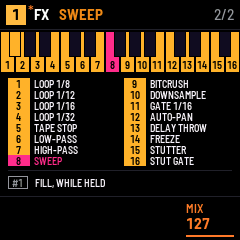
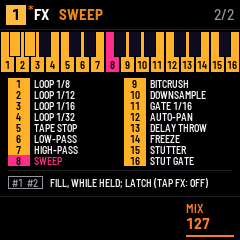
LATCH: FX held, black key 2 keeps the punch-ins held after their keys and FX, until a tap on FX (not TAPE STOP, DELAY THROW, FREEZE)

Changed region(s): [[0.0875, 0.7292, 0.875, 0.7875], [0.0875, 0.1167, 0.1458, 0.2333]]

diff --git a/app/ui.c b/app/ui.c
@@ -214,6 +214,8 @@ static struct {
     int fxdown, msg_punch;                     /* msg_punch: the punch-in last pressed 1..16, shown until punch_until */
     int fill;                                  /* FX held, black key 1 held: FILL (audio_fill) */
     uint16_t punch;                            /* the punch-ins held under FX, bit k = white key k + 1 */
+    uint16_t latch;                            /* FX held, black key 2: the punch-ins kept after their keys and FX, until a
+                                                  tap on FX */
     uint8_t last_note[Q_TRACKS];               /* a step switched on by hand takes it */
     int8_t key_note[NKEYS], key_track[NKEYS];  /* what each held key sounds, for its note-off; -1 none */
     uint32_t btn, keys, msg_until, locks_until, path_until, punch_until;
@@ -1123,13 +1125,14 @@ static void pattern_set(int n)
    paste it. A paste replaces what is there: it asks for a second press. The clipboards stay till power-off */
 enum { COPY_PAT = 1, COPY_AGAIN, COPY_PAT_PASTED, COPY_SND, COPY_SND_PASTED, COPY_NONE, COPY_UNDONE, COPY_REDONE,
        COPY_NO_UNDO, COPY_AGAIN_LOAD, COPY_UNSAVED_LOAD, COPY_AGAIN_PRINT, COPY_PRINTING, COPY_PRINTED, COPY_PLAY_PRINT,
-       COPY_DOUBLED, COPY_TOO_LONG, COPY_NUDGE_L, COPY_NUDGE_R, COPY_PROJECT, COPY_N = COPY_PROJECT + Q_PROJECTS };   /* (the header's messages for
+       COPY_DOUBLED, COPY_TOO_LONG, COPY_NUDGE_L, COPY_NUDGE_R, COPY_LATCHED, COPY_UNLATCHED, COPY_PROJECT, COPY_N = COPY_PROJECT + Q_PROJECTS };   /* (the header's messages for
                                                        the copies, UNDO and the projects: COPY_PROJECT + n, project n) */
 static const char *const COPY_NAME[COPY_N - 1] = {"PATTERN COPIED", "AGAIN: PASTE", "PATTERN PASTED", "SOUND COPIED",
                                                    "SOUND PASTED", "NOTHING COPIED", "UNDONE", "REDONE",
                                                    "NOTHING TO UNDO", "AGAIN: LOAD", "UNSAVED: LOAD?", "AGAIN: PRINT",
                                                    "PRINTING", "PRINTED", "PLAY TO PRINT", "LEN DOUBLED",
-                                                   "TOO LONG TO DOUBLE", "STEPS LEFT", "STEPS RIGHT", "PROJECT 1",
+                                                   "TOO LONG TO DOUBLE", "STEPS LEFT", "STEPS RIGHT", "LATCHED",
+                                                   "LATCH OFF", "PROJECT 1",
                                                    "PROJECT 2",
                                                    "PROJECT 3", "PROJECT 4"};   /* COPY_* - 1 */
 static struct { q_pattern pat; q_sound snd; q_pad pads[Q_PADS]; uint8_t has_pat, has_snd; } clip;   /* (.bss: the pool
@@ -1975,9 +1978,15 @@ static void key_down(int k)
         home_key(w);
         return;
     }
-    if (ui.fxdown) {                    /* FX held: the white keys are the punch-ins, black key 1 FILL */
+    if (ui.fxdown) {                    /* FX held: the white keys are the punch-ins, black key 1 FILL, black key 2 LATCH */
         if (k == BLACK[0])
             audio_fill(ui.fill = 1);
+        if (k == BLACK[1]) {            /* the ones that end in silence or a wash are not kept: TAPE STOP, DELAY THROW,
+                                           FREEZE */
+            ui.latch = ui.punch & (uint16_t)~(1u << 4 | 1u << 12 | 1u << 13);
+            if (ui.latch)
+                copy_msg(COPY_LATCHED, MSG_MS);
+        }
         if (w < 16) {
             ui.punch |= (uint16_t)(1u << w);
             audio_punch(ui.punch);
@@ -2244,7 +2253,7 @@ static void key_up(int k)
 {
     int w;
     for (w = 0; w < 16 && WHITE[w] != k; w++) {}
-    if (w < 16 && ui.punch >> w & 1) {
+    if (w < 16 && ui.punch >> w & 1 && !(ui.latch >> w & 1)) {
         ui.punch &= (uint16_t)~(1u << w);
         audio_punch(ui.punch);
     }
@@ -2321,9 +2330,13 @@ void ui_input(void)
         sel_clear();
     ui.arpdown = btn >> B_ARP & 1u;
     ui.fxdown = btn >> B_FX & 1u;
-    if (!ui.fxdown && ui.punch) {       /* FX let go: every punch-in with it */
-        ui.punch = 0;
-        audio_punch(0);
+    if ((ui.btn & ~btn) >> B_FX & 1u && short_press(B_FX) && ui.latch) {   /* a tap on FX: the latch off */
+        ui.latch = 0;
+        copy_msg(COPY_UNLATCHED, MSG_MS);
+    }
+    if (!ui.fxdown && ui.punch != ui.latch) {   /* FX let go: every punch-in with it, but the latched ones */
+        ui.punch = ui.latch;
+        audio_punch(ui.punch);
     }
     if (!ui.fxdown && ui.fill)          /* and FILL */
         audio_fill(ui.fill = 0);
@@ -2550,8 +2563,8 @@ static uint32_t layer_keys(int b)
     case B_SEQ:
         for (i = 0; i < (b == B_FX ? 16 : 8); i++)
             keys |= 1u << WHITE[i];
-        if (b == B_FX)                  /* FX: and FILL */
-            keys |= 1u << BLACK[0];
+        if (b == B_FX)                  /* FX: and FILL, LATCH */
+            keys |= 1u << BLACK[0] | 1u << BLACK[1];
         if (b == B_SEQ)                 /* SEQ: and the copies, PRINT on a generator */
             keys |= 1u << BLACK[0] | 1u << BLACK[1] | 1u << BLACK[2] | 1u << BLACK[3] | (uint32_t)(pat()->src != SRC_STEP) << BLACK[4]
                     | (uint32_t)(pat()->src == SRC_STEP) << BLACK[5];
@@ -3371,7 +3384,8 @@ static void draw_layer(const q_view *v, int32_t oy)
             int_text(i + 1, tb[i]);
             tags[n] = tb[i], names[n++] = PUNCH_NAME[i];
         }
-        combo[0][0] = "#1", combo[0][1] = "FILL, WHILE HELD";   /* (one line fits: FX let go stops all, the manual says) */
+        combo[0][0] = "#1  #2", combo[0][1] = "FILL, WHILE HELD; LATCH (TAP FX: OFF)";   /* (one line fits: FX let go
+                                                                                         stops all, the manual says) */
         break;
     case B_SAVE:
     case B_SEQ:
@@ -4258,6 +4272,7 @@ int ui_expect(const char *what, int *got)
     else if (!strcmp(what, "save_at_stop")) *got = ui.save_at_stop;
     else if (!strcmp(what, "msg_wipe")) *got = plat_ms() < ui.wipe_until;
     else if (!strcmp(what, "msg_random")) *got = plat_ms() < ui.rnd_until ? ui.rnd_kind : 0;
+    else if (!strcmp(what, "latch")) *got = ui.latch;
     else if (!strcmp(what, "transpose")) *got = ui.transpose;
     else if (!strcmp(what, "msg_copy")) *got = plat_ms() < ui.copy_until ? ui.copy_kind : 0;
     else if (!strcmp(what, "project")) *got = store_project + 1;

diff --git a/app/docs/MANUAL.md b/app/docs/MANUAL.md
@@ -448,6 +448,11 @@ Black key 1, with FX held, is FILL: while you hold it, the steps whose COND is F
 every track ([COND](sequencer.html#step-functions)). Let go of the key or of FX and the pattern plays as written again.
 FILL is not recorded.
 
+Black key 2, with FX held, LATCHes the punch-ins you hold: they stay on after you let go of their keys and of FX, so
+that both hands are free (`LATCHED`). Tap FX to let them go (`LATCH OFF`). TAPE STOP, DELAY THROW and FREEZE are never
+latched: they would leave the mix silent or drowned. While recording LIVE, the latched ones are written on every step
+crossed.
+
 ![FX held with key 8 pressed: the 16 punch-ins named, SWEEP in pink](img/shape-punch.png "FX held: the punch-ins")
 
 **Inspired by** the [OP-Z's punch-in effects](https://teenage.engineering/guides/op-z/punch-in-effects): a held key
